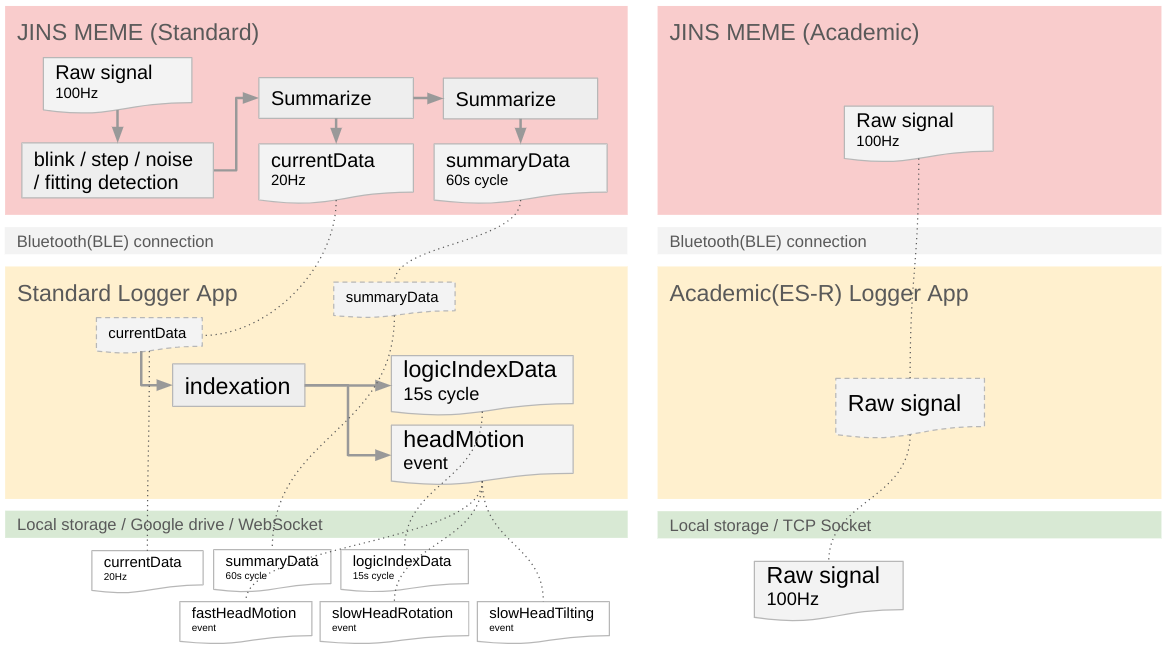
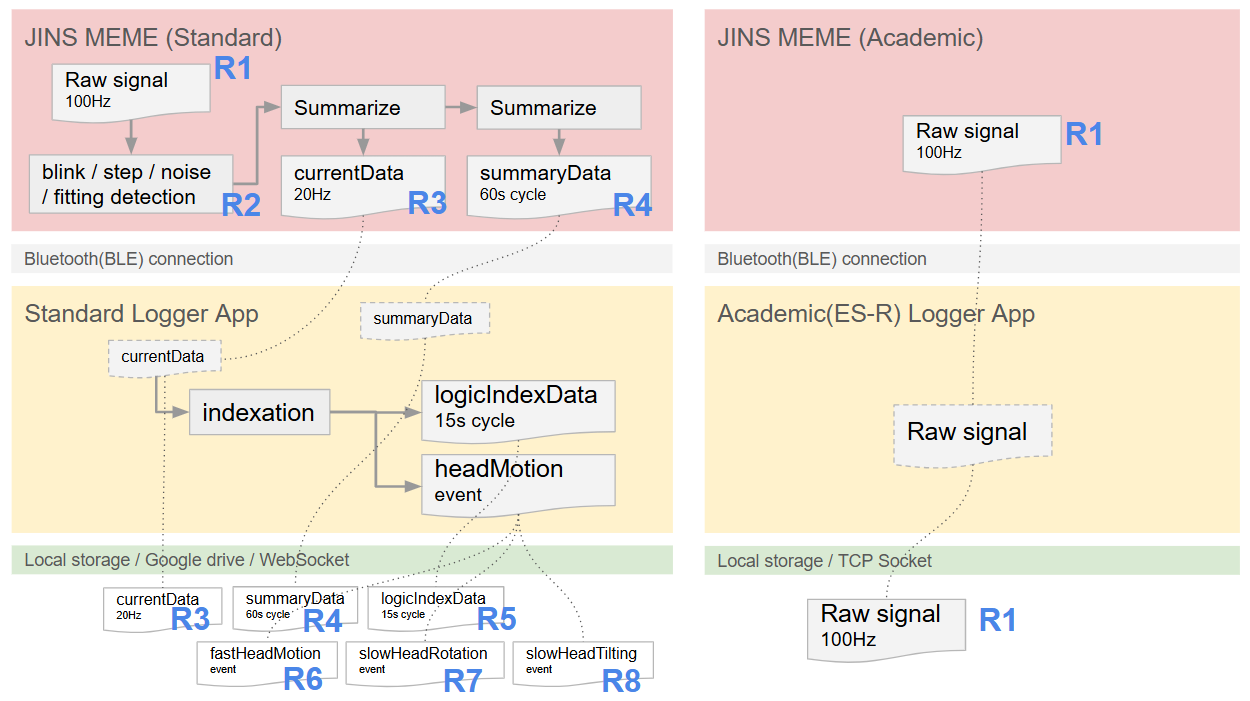
wip

diff --git a/docs/hardware.md b/docs/hardware.md
@@ -4,76 +4,36 @@ outline: deep
 
 ![](/images/title.png)
 
-## 機種の種類
+## 製品比較
 
-- <Badge type="tip" text="通常版" />は、JINS MEME内またはアプリ内で意味づけを行ったデータを取得でき、一般的な実験用途に適しています。
-- <Badge type="danger" text="アカデミック版" />(ES-R)は、粒度の細かいEOGや6軸センサーの生データを取り込むことができます。最大で100Hzでの全データ種、200HzでのEOGの取得に対応しております。
-- アカデミック版のデータを通常版のデータに変換するツールは提供しておりません。
+
+| 項目 | ES <Badge type="tip" text="通常版" /> | ES-R <Badge type="danger" text="アカデミック版" /> |
+|:---|:---|:---|
+| 機種の概要 | JINS MEME 標準版。アプリや内部処理で意味付けされたデータを取得。一般的な実験向け。 | アカデミック版。粒度の細かいEOGや6軸センサーの生データを取得可能。アルゴリズム開発向け。|
+| 転送周期 | 20Hz, 60秒1回 | 50/100Hz |
+| 対応ソフトウェア | - Logger [（iOS/Android）](/software/es/logger_app)<br/>- SDK（iOS/Android/Nodejs）※20Hz・60秒間隔データのみ、問い合わせ対応 | - Logger ([Windows / macOS](/software/with-pc/) / [Android](/software/with-android/))<br /> -[SDK](https://github.com/jins-meme/ES_R-Development-Kit)|
+| 主なデータ種類 | - __R3__: 20Hz リアルタイムデータ(currentData): まばたき、視線移動、加速度、角度<br/>- __R5__: 15秒間隔 ロジック指標(logicIndexData): 集中・落ち着き等<br/>- __R4__: 60秒間隔 サマリ(summaryData)<br /><br />[詳細はこちら](/doc/data_es)| __R1__: 測定前にいずれかのモードを選択<br />- Full Mode: EOG、加速度、角速度<br/>- Standard Mode: EOG（1行に2データ）、加速度<br/>- Quaternion mode: Quaternion（姿勢表現）<br /><br />[詳細はこちら](/doc/data_esr)|
+| 使用時間（連続） | - アクティブ（ジャイロなし）：最大約24時間<br/>- アクティブ（ジャイロあり）：最大約12時間<br/>- スリーブモード：約2週間 | - Full mode: 約11h<br/>- Standard mode: 約15h<br/>- Quartanion mode: 約9h |
 
 ![](/images/schematics.png)
 
-## 対応ソフトウェアと取得可能なデータ
-
-ソフトウェアは全て無償でダウンロード・インストールできます。
-
-| 機種 | 転送周期 | ソフトウェアと対応OS |
-| :---: | :---: | :--- |
-| <Badge type="tip" text="通常版" /> | 20Hz<br/>60秒1回 | <ul><li>[通常版 Logger<br/> (iOS / Android)](/software/es/logger_app)</li><li>SDK (iOS / Android / Nodejs)<br/>※問い合わせ対応、20Hz・60秒間隔データのみ</li></ul> |
-| <Badge type="danger" text="アカデミック版" /><br/>(ES-R) | 50/100Hz | <ul><li>Academic(ES-R)版 Logger<br/>([Windows / MacOS](/software/with-pc/) / [Android](/software/with-android/))</li><li>[SDK](https://github.com/jins-meme/ES_R-Development-Kit)</li></ul>  |
-
-### データ一覧<Badge type="tip" text="通常版" />
-
-[詳細はこちら](/doc/data_es)からご覧ください。
-
-| データ種類 | 名称・別称 | 含まれる指標の例 |
-|:---|:---|:---|
-| 20Hzデータ | リアルタイムデータ, currentData | まばたきイベント、視線移動、加速度、角度 |
-| 15秒間隔データ | ロジック指標データ, logicIndexData | 集中、落ち着き、緊張、覚醒、歩数、姿勢角(前後・左右)、歩行振動(X/Y/Z)、まばたき統計指標(H/W, Mean/Sd) |
-| 60秒間隔データ | サマリデータ, スタンダードデータ, summaryData | 歩数(ピッチ4段階)、姿勢角(前後・左右)、歩行振動(X/Y/Z)、まばたき統計指標(H/W, Mean/Sd) | 
-| 高速頭部運動データ | 首振りデータ, fastHeadMotion | 縦や横に顔を向けたときのイベント |
-| 低速頭部運動データ | 頭の回転と傾きデータ, slowHeadRotation, slowHeadTilting | ゆっくりとした頭の回転や傾きのイベント |
-
-### データ一覧<Badge type="danger" text="アカデミック版" /> 
-
-[詳細はこちら](/doc/data_esr)からご覧ください。
-
-| データ種類 | 含まれる指標の例 |
-|:---|:---|
-| Standard Mode データ | EOG電位シグナル, 加速度（1行に2データ） |
-| Full Mode データ | EOG電位シグナル, 加速度, 角速度 |
-| Quaternion データ | Quaternion |
+R1データ(Full / Standard)からR2/R3/R5データへは、[変換アプリ](https://jinsmeme.streamlit.app/)を使用し疑似的に変換することができます（アプリがスリープ状態だった場合はUpボタンを押してアプリを起動させてください）。
 
 
-## 製品仕様
-
-<Badge type="tip" text="通常版" />
+## 共通仕様
 
 | 項目 | 仕様 |
 |:---|:---|
 | バッテリー | リチャージブルリチウムイオンバッテリー内蔵 |
+| 充電クリップインターフェース | micro  USB端子  |
 | 充電時間 | 約2.5h |
-| 使用時間 | アクティブモード（連続使用 ジャイロなし）：最大約24時間<br/>アクティブモード（連続使用 ジャイロあり）：最大約12時間<br/>スリーブモード（待機状態）：約2週間 |
-| 質量 | 約32g（度なしUVカットレンズの場合） |
-| 材質 | プラスチック(core/crip)、SUS316L(core)、TR-90(frame) |
-| センサー | ・3点式眼電位センサー(Resolusion: 12bit, Ideal: 2.5mV)<br>・3軸加速度センサー<br>・3軸ジャイロ（角速度）センサー |
-| データ通信 | Bluetooth Low Energyによる無線通信 |
-| 外部インターフェース | micro  USB端子  |
-| 使用環境条件 | ・温度：0～40℃<br>・湿度：10～90％ RH（結露なきこと） |
-
-<Badge type="danger" text="アカデミック版" />
-
-| 項目 | 仕様 |
-|:---|:---|
-| バッテリー | リチャージブルリチウムイオンバッテリー内蔵 |
-| 充電時間 | 約2.5h |
-| 使用時間 | - Quartanion mode: 約9h<br>- Full node: 約11h<br>- Standard mode: 約15h |
 | 質量 | 約32g（度なしUVカットレンズの場合） |
 | 材質 | プラスチック(core/crip)、SUS316L(core)、TR-90(frame) |
 | センサー | ・3点式眼電位センサー(Resolusion: 12bit, Ideal: 2.5mV)<br>・3軸加速度センサー<br>・3軸ジャイロ（角速度）センサー |
 | データ通信 | ・Bluetooth Low Energyによる無線通信 |
 | 使用環境条件 | ・温度：0～40℃<br>・湿度：10～90％ RH（結露なきこと） |
 
-## フレームの種類
+### フレームの種類
 
 | Wellington Black | Wellington Brown |
 |:---|:---|
